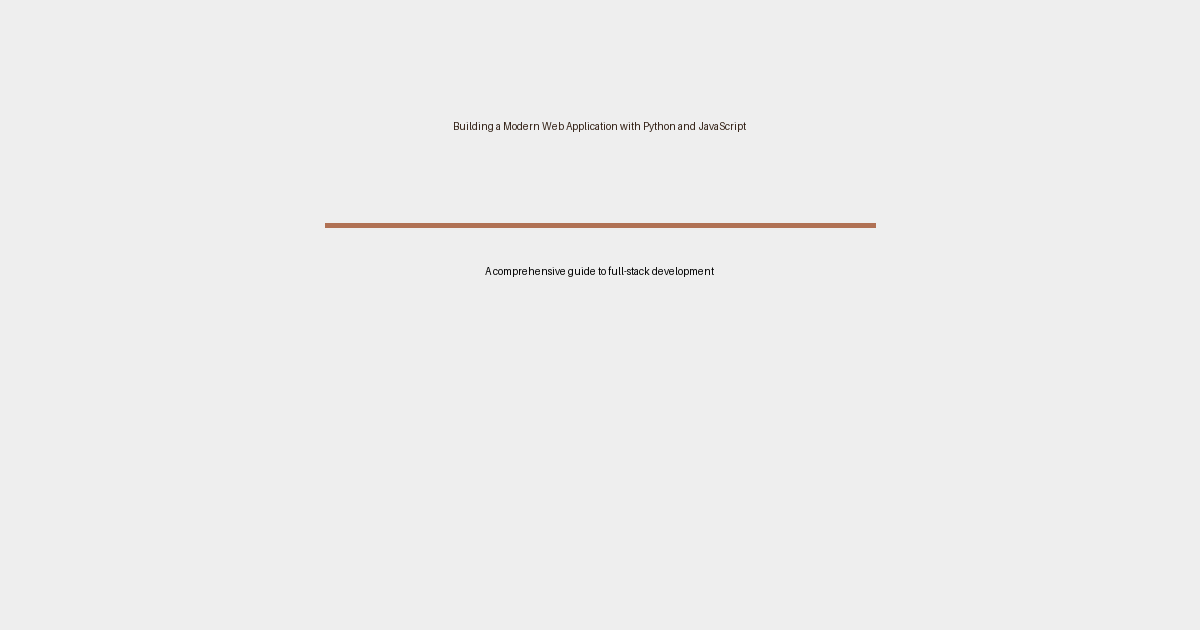
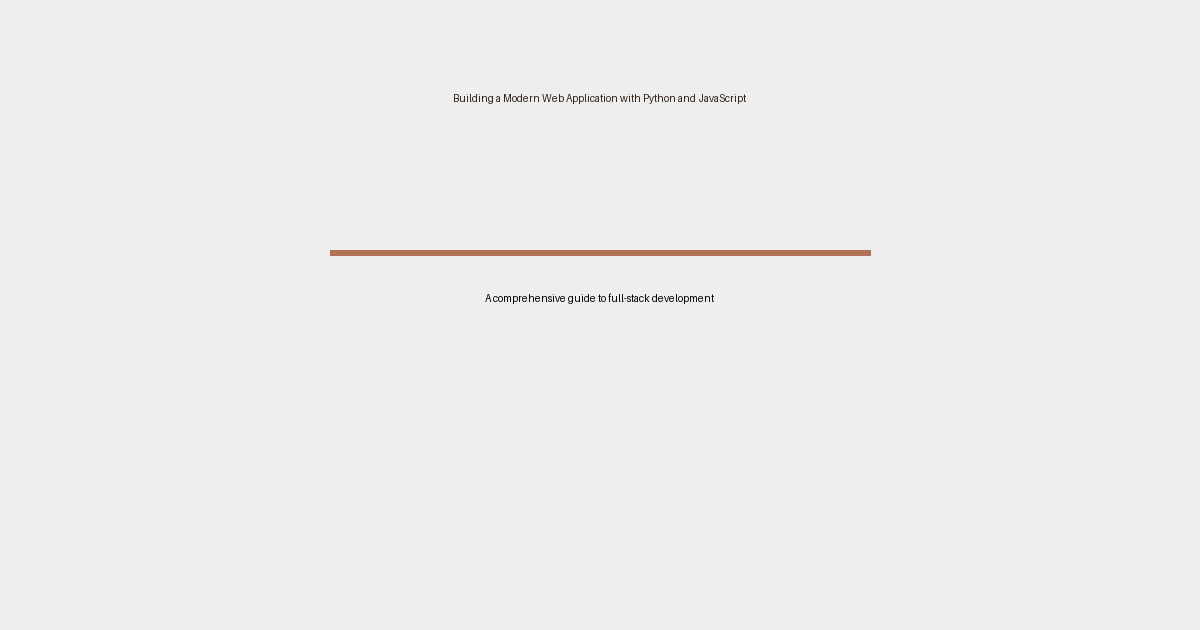
Increase font sizes for better readability in OG images
- Updated default title font size from 65 to 120
- Updated default subtitle font size from 32 to 60
- Increased default line width from 5 to 6
- Increased default padding from 50 to 60
- Updated individual theme font sizes proportionally
- Regenerated all 14 sample images with larger fonts

🤖 Generated with [Claude Code](https://claude.com/claude-code)

Changed region(s): [[0.2775, 0.3921, 0.74, 0.4825], [0.37, 0.1508, 0.6167, 0.2111], [0.2775, 0.3317, 0.74, 0.3619]]

diff --git a/helper_libs/og_themes.py b/helper_libs/og_themes.py
@@ -29,10 +29,10 @@ class ThemeConfig:
     """Configuration for an OG image theme"""
     name: str
     colors: ThemeColors
-    title_font_size: int = 65
-    subtitle_font_size: int = 32
-    line_width: int = 5
-    padding: int = 50
+    title_font_size: int = 120
+    subtitle_font_size: int = 60
+    line_width: int = 6
+    padding: int = 60
 
 
 # Theme definitions
@@ -55,7 +55,7 @@ THEMES = {
             accent_color=(99, 102, 241),  # Indigo
             secondary_accent=(236, 72, 153),  # Pink
         ),
-        title_font_size=68,
+        title_font_size=124,
         line_width=4,
     ),
     "dark": ThemeConfig(
@@ -67,7 +67,7 @@ THEMES = {
             accent_color=(59, 130, 246),  # Blue
             secondary_accent=(139, 92, 246),  # Purple
         ),
-        title_font_size=65,
+        title_font_size=120,
     ),
     "minimal": ThemeConfig(
         name="Minimal",
@@ -77,7 +77,7 @@ THEMES = {
             subtitle_color=(115, 115, 115),
             accent_color=(23, 23, 23),
         ),
-        title_font_size=60,
+        title_font_size=112,
         line_width=2,
         padding=80,
     ),
@@ -90,7 +90,7 @@ THEMES = {
             accent_color=(255, 255, 255),
             secondary_accent=(254, 202, 87),  # Yellow
         ),
-        title_font_size=70,
+        title_font_size=128,
     ),
     "gradient_ocean": ThemeConfig(
         name="Gradient Ocean",
@@ -101,7 +101,7 @@ THEMES = {
             accent_color=(0, 255, 200),  # Cyan
             secondary_accent=(0, 184, 148),  # Teal
         ),
-        title_font_size=68,
+        title_font_size=124,
     ),
     "gradient_purple": ThemeConfig(
         name="Gradient Purple",
@@ -112,7 +112,7 @@ THEMES = {
             accent_color=(255, 193, 7),  # Gold
             secondary_accent=(255, 87, 51),  # Orange
         ),
-        title_font_size=68,
+        title_font_size=124,
     ),
     "retro": ThemeConfig(
         name="Retro",
@@ -123,7 +123,7 @@ THEMES = {
             accent_color=(205, 92, 92),  # Indian red
             secondary_accent=(184, 134, 11),  # Dark goldenrod
         ),
-        title_font_size=62,
+        title_font_size=116,
         line_width=6,
     ),
     "tech": ThemeConfig(
@@ -135,7 +135,7 @@ THEMES = {
             accent_color=(88, 166, 255),  # Blue
             secondary_accent=(63, 185, 80),  # Green
         ),
-        title_font_size=64,
+        title_font_size=118,
     ),
     "nature": ThemeConfig(
         name="Nature",
@@ -146,7 +146,7 @@ THEMES = {
             accent_color=(139, 195, 74),  # Light green
             secondary_accent=(76, 175, 80),  # Green
         ),
-        title_font_size=65,
+        title_font_size=120,
     ),
 }
 
